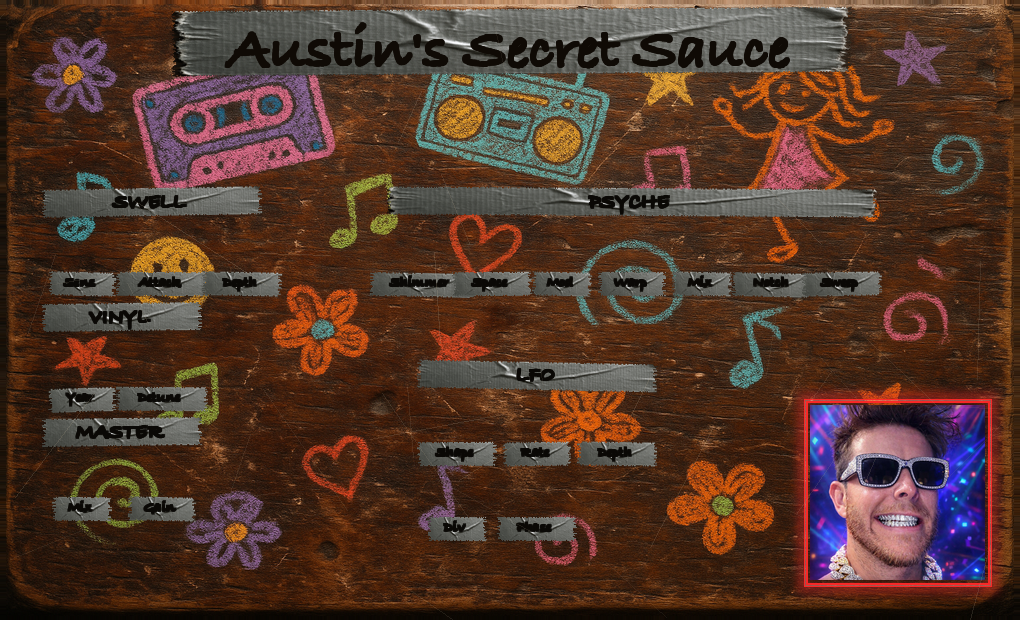
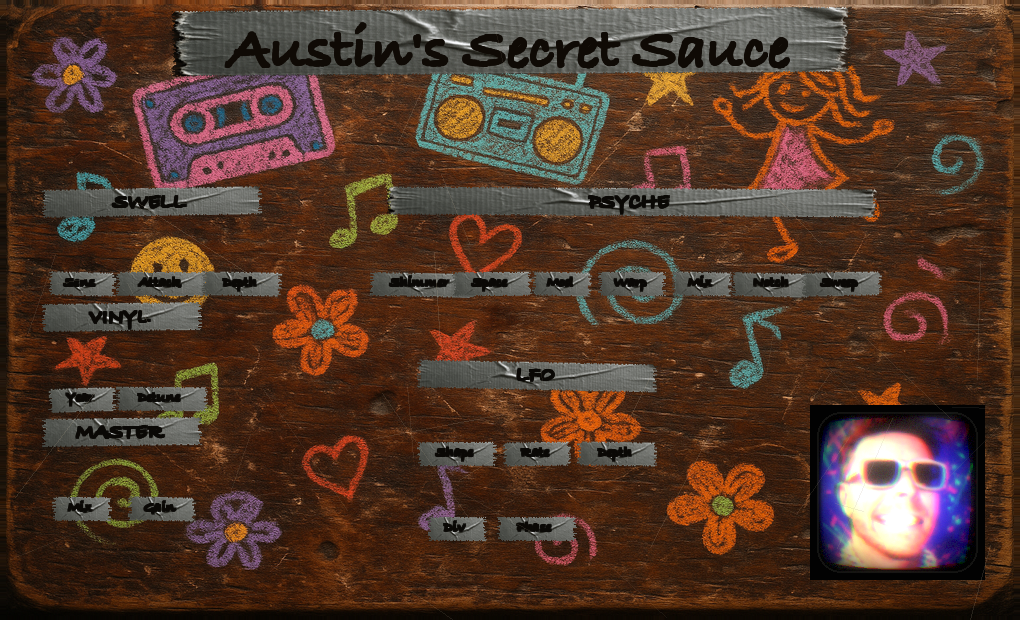
v4.18: CRT portrait effect (MSEVEN-style)
- Portrait now rendered through CRT phosphor emulation
- Scanlines, RGB chromatic aberration, barrel distortion
- Phosphor bloom (multi-scale, color-tinted, white-hot peaks)
- Grid dissolves in bright areas (smooth phosphor blowout)
- Glass reflection, vignette, camera grain
- Animated CRT flicker overlay (8Hz power hum + rare glitch)
- Scrolling scanline bands at 30fps

Changed region(s): [[0.7598, 0.6129, 1.0, 0.9806]]

diff --git a/src/PluginEditor.cpp b/src/PluginEditor.cpp
@@ -235,8 +235,9 @@ void AetherEditor::timerCallback()
 {
     neonTime += 1.0f / 30.0f;
 
-    // Repaint LFO display pocket area
+    // Repaint LFO display pocket area + CRT portrait
     repaint(665, 388, 140, 125);
+    repaint(getWidth() - 215, getHeight() - 220, 185, 185);  // CRT portrait region
 }
 
 // ================================================================
@@ -472,6 +473,49 @@ void AetherEditor::paint(juce::Graphics& g)
         g.fillAll(juce::Colour(0xFF3B2F2F));
 
     // Neon borders are baked into the background texture — no overlay needed
+
+    // ---- CRT flicker on portrait area ----
+    {
+        // Portrait position matches face art: px = W - 175 - 35, py = H - 175 - 40
+        float px = getWidth() - 175.0f - 35.0f;
+        float py = getHeight() - 175.0f - 40.0f;
+        auto crtRect = juce::Rectangle<float>(px, py, 175.0f, 175.0f);
+
+        // Subtle brightness flicker (CRT power supply hum)
+        float flicker = 0.92f + 0.08f * std::sin(neonTime * 8.0f);  // 8Hz subtle pulse
+        // Random micro-glitch (rare)
+        if (((int)(neonTime * 30) % 97) == 0)
+            flicker *= 0.85f;
+
+        // Animated scanline overlay (scrolls slowly)
+        float scanOffset = std::fmod(neonTime * 15.0f, 5.0f);  // slow scroll
+        g.saveState();
+        g.reduceClipRegion(crtRect.toNearestInt());
+        
+        // Draw scrolling scanline bands
+        g.setColour(juce::Colour(0x00000000).withAlpha(0.06f * (1.0f - flicker + 0.08f)));
+        for (float y = py + scanOffset; y < py + 175.0f; y += 5.0f)
+        {
+            g.fillRect(px, y, 175.0f, 1.5f);
+        }
+        
+        // Overall brightness modulation
+        if (flicker < 0.95f)
+        {
+            g.setColour(juce::Colour(0x00000000).withAlpha(1.0f - flicker));
+            g.fillRect(crtRect);
+        }
+        
+        // Occasional horizontal sync glitch (very rare)
+        if (((int)(neonTime * 30) % 211) == 0)
+        {
+            int glitchY = (int)(py + std::fmod(neonTime * 100, 175.0f));
+            g.setColour(juce::Colour(0x20FFFFFF));
+            g.fillRect((int)px, glitchY, 175, 2);
+        }
+        
+        g.restoreState();
+    }
 
     // ---- LFO display pocket (carved into pedal) ----
     drawLfoPocket(g);
